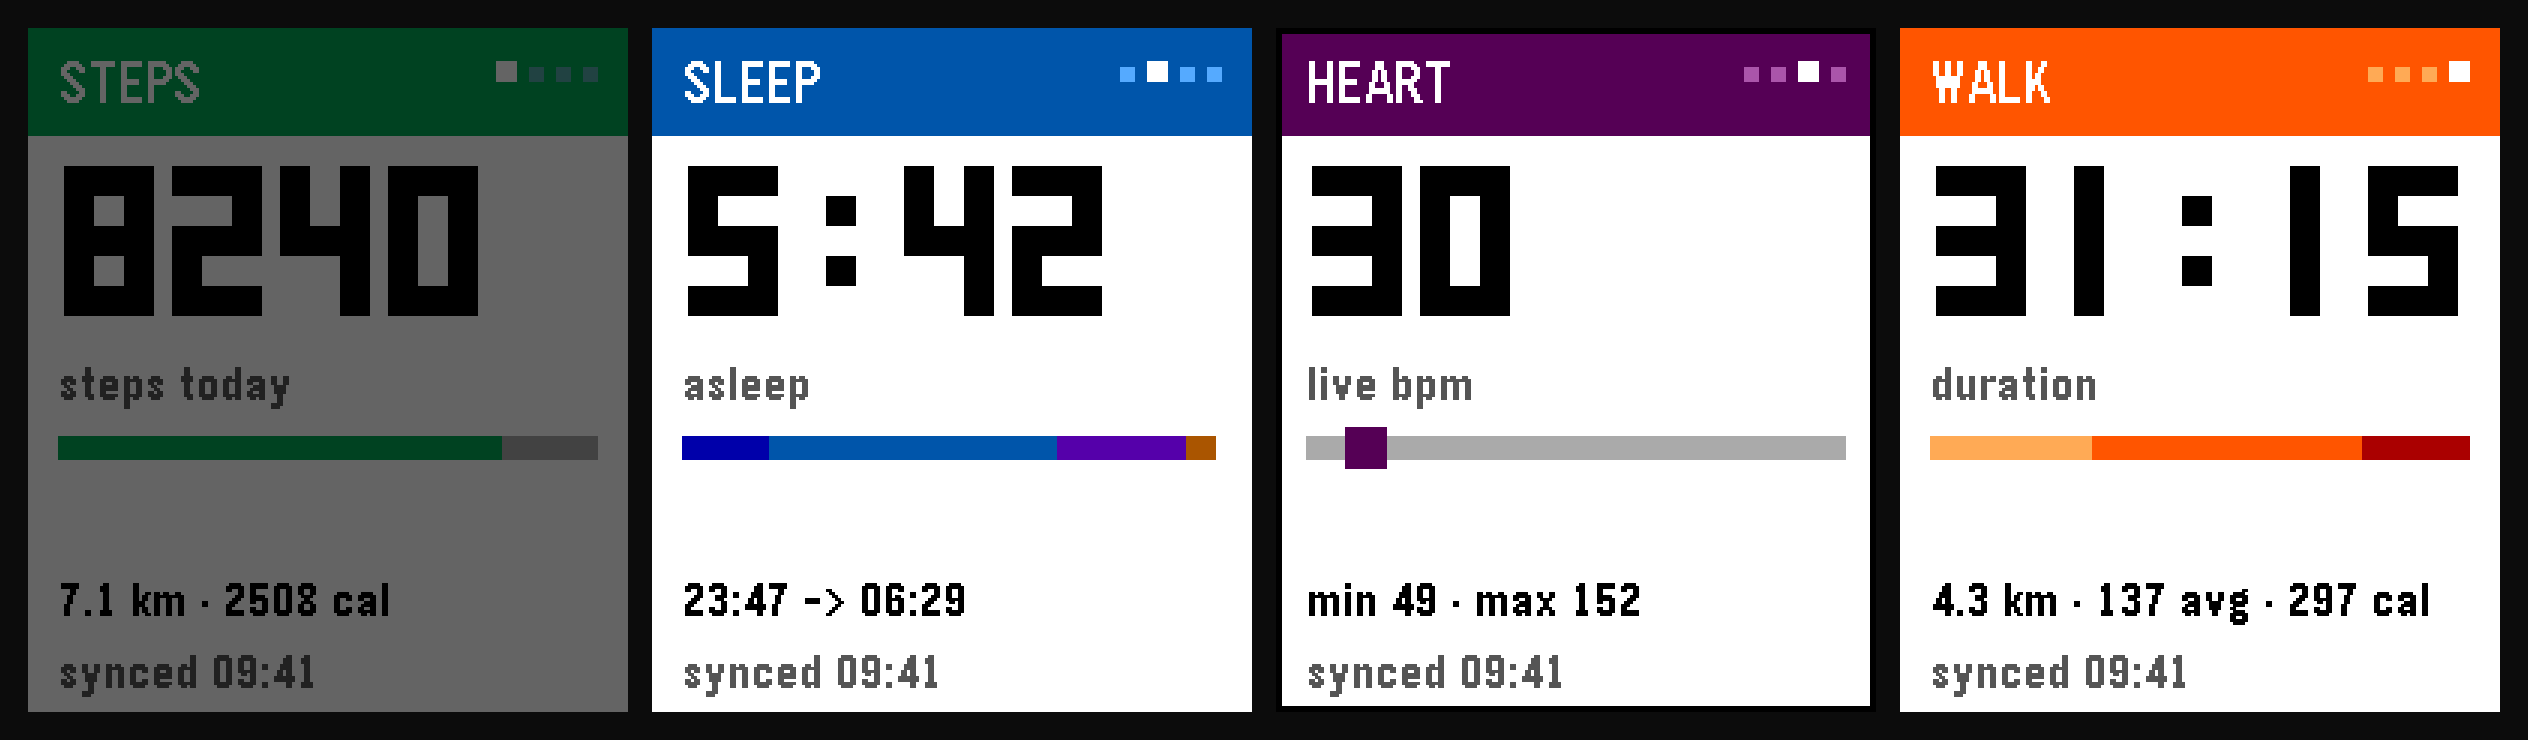
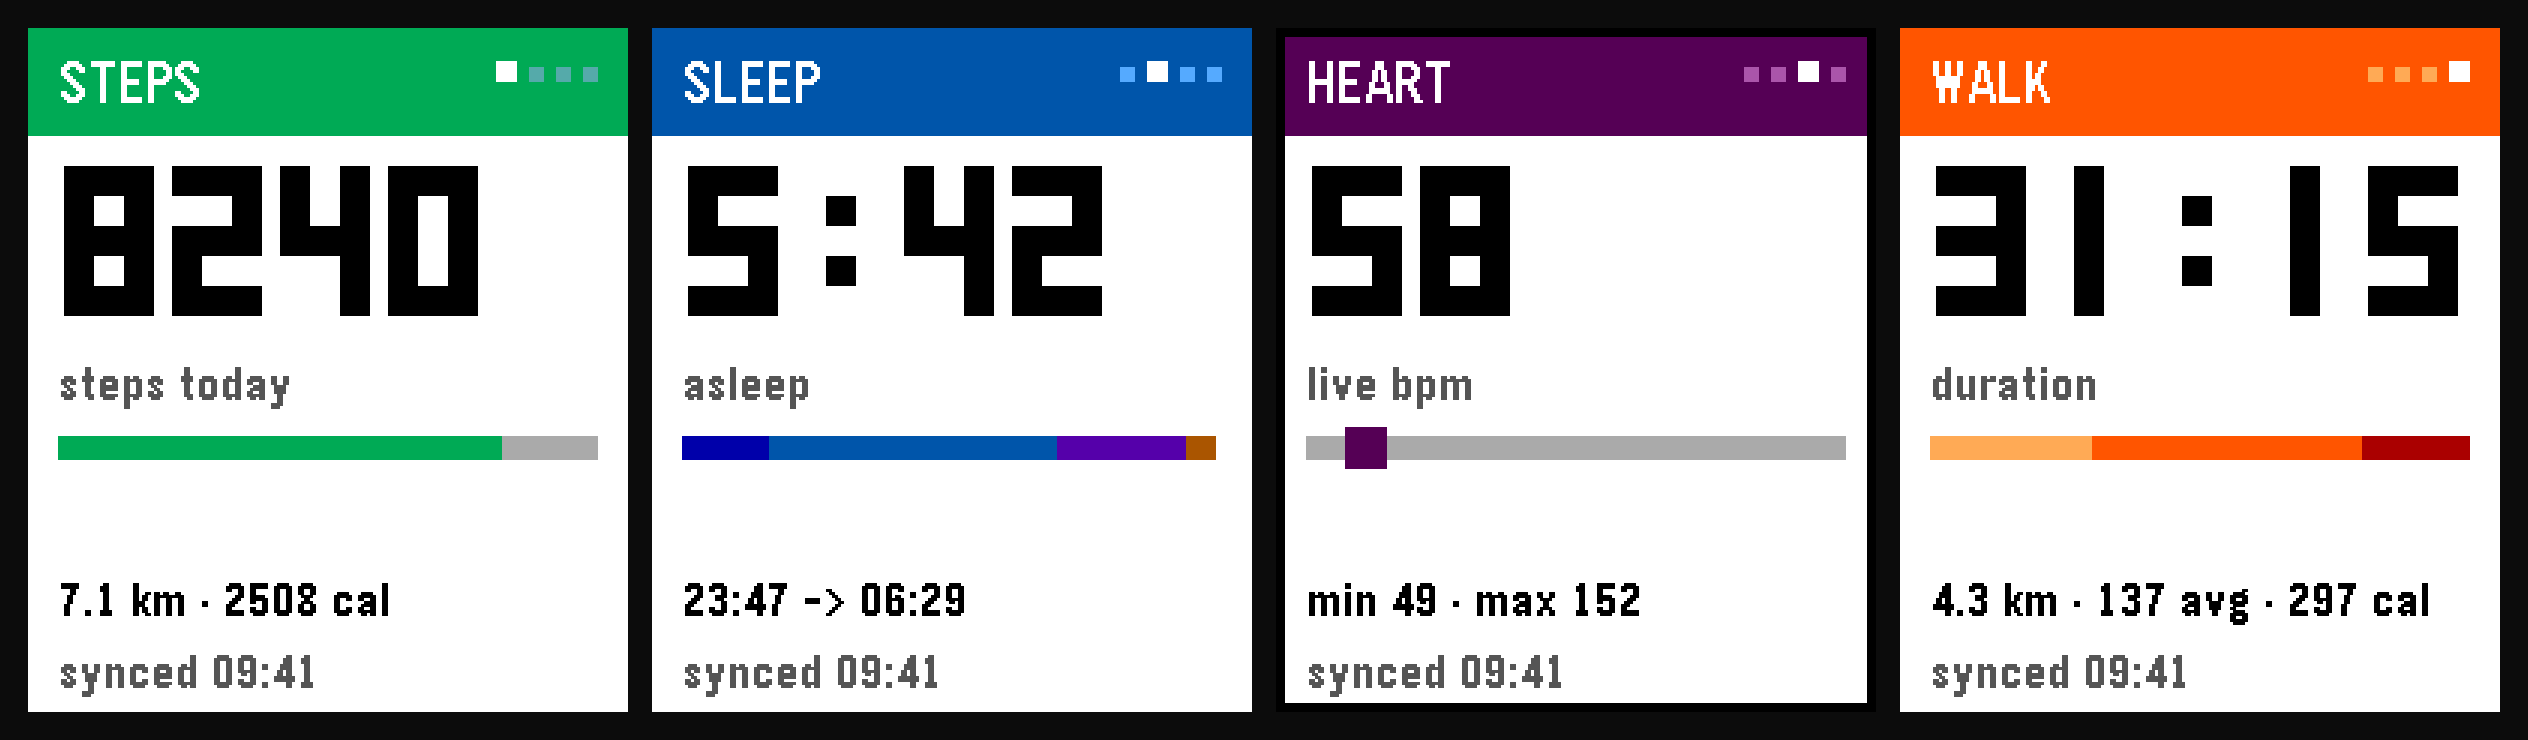
Touch paging actually works, and captures stop being greyed out
Touch: the drag-to-page handler and its synthetic self-test were both already in
main.c, but nothing ever called touch_service_subscribe() — so on hardware the
handler was never invoked and the deck stayed button-only. Subscribe on appear,
unsubscribe on disappear, and gate it behind touch_service_is_enabled() logging.
The gesture follows the finger and releases into the existing page turn, so swiping
up is the same as pressing Up. Verified with the synthetic swipe (Select replays a
long drag under HG_TOUCH_SELFTEST=1): Steps -> Sleep -> Heart.

Screenshots: the first capture after a launch was always greyed out because the
emulator dims its backlight after a few seconds of inactivity, halving every colour
(Steps body measured 100,100,100 against 255,255,255 once awake). emu-shot.sh now
nudges Select — inert on the deck — before each screendump; HG_SHOT_WAKE=0 opts out.

All assets recaptured at full brightness: hero, four-card strip, and the pulse GIF
rebuilt from 100 real frames with measured per-frame delays (9 KB, 2.02 s, no
dimmed frame in the set). The Heart card is recaptured at 58 bpm rather than the
30 bpm test rate, so the README isn't showing an implausible number.

diff --git a/pebble/src/c/main.c b/pebble/src/c/main.c
@@ -327,6 +327,7 @@ static void click_config(void *ctx) {
   window_single_click_subscribe(BUTTON_ID_DOWN, down_click);
   window_single_click_subscribe(BUTTON_ID_BACK, back_click);
 #if HG_TOUCH_SELFTEST
+  /* QA build only: Select replays a long swipe, long-press Select a short one. */
   window_single_click_subscribe(BUTTON_ID_SELECT, selftest_click);
   window_long_click_subscribe(BUTTON_ID_SELECT, 0, selftest_long_click, NULL);
 #endif
@@ -618,7 +619,9 @@ static void window_appear(Window *w) {
   return;
 #endif
   start_req_loop();
-  if (touch_service_is_enabled()) touch_service_subscribe(touch_handler, NULL);
+  /* Touch is only present on some platforms, so ask before subscribing. */
+  touch_service_subscribe(touch_handler, NULL);
+  APP_LOG(APP_LOG_LEVEL_INFO, "touch enabled=%d", (int)touch_service_is_enabled());
 }
 
 static void window_disappear(Window *w) {

diff --git a/README.md b/README.md
@@ -47,7 +47,7 @@ Deliberately absent: charts to scroll, days to page back through, settings to co
 <img src="docs/images/pulse.gif" alt="Live heart rate with the pulse frame" width="200">
 </p>
 
-<sub>The pulse frame, captured from the watch at 30 bpm so the beat is visible as a still image.</sub>
+<sub>The pulse frame, captured frame-by-frame from the watch emulator.</sub>
 
 ## Requirements
 
@@ -91,9 +91,12 @@ On the watch: **Settings → Quick Launch → Up → Health Glance.** Then, from
 Three buttons, one grammar: Up and Down move through a list, Select acts on what is shown, Back
 leaves.
 
-| Where | Up | Down | Select | Back |
-| --- | --- | --- | --- | --- |
-| Deck | next card | previous card | — | exit to watchface |
+| Where | Up | Down | Swipe | Select | Back |
+| --- | --- | --- | --- | --- | --- |
+| Deck | next card | previous card | up = next, down = previous, following the drag | — | exit to watchface |
+
+Swiping drags the card with your finger and lets go into the same page turn the buttons
+use, so touch and buttons are one gesture vocabulary rather than two behaviours.
 
 That's genuinely all of it. Back is the only way out, so you can never leave the app by accident
 while reading a number.
